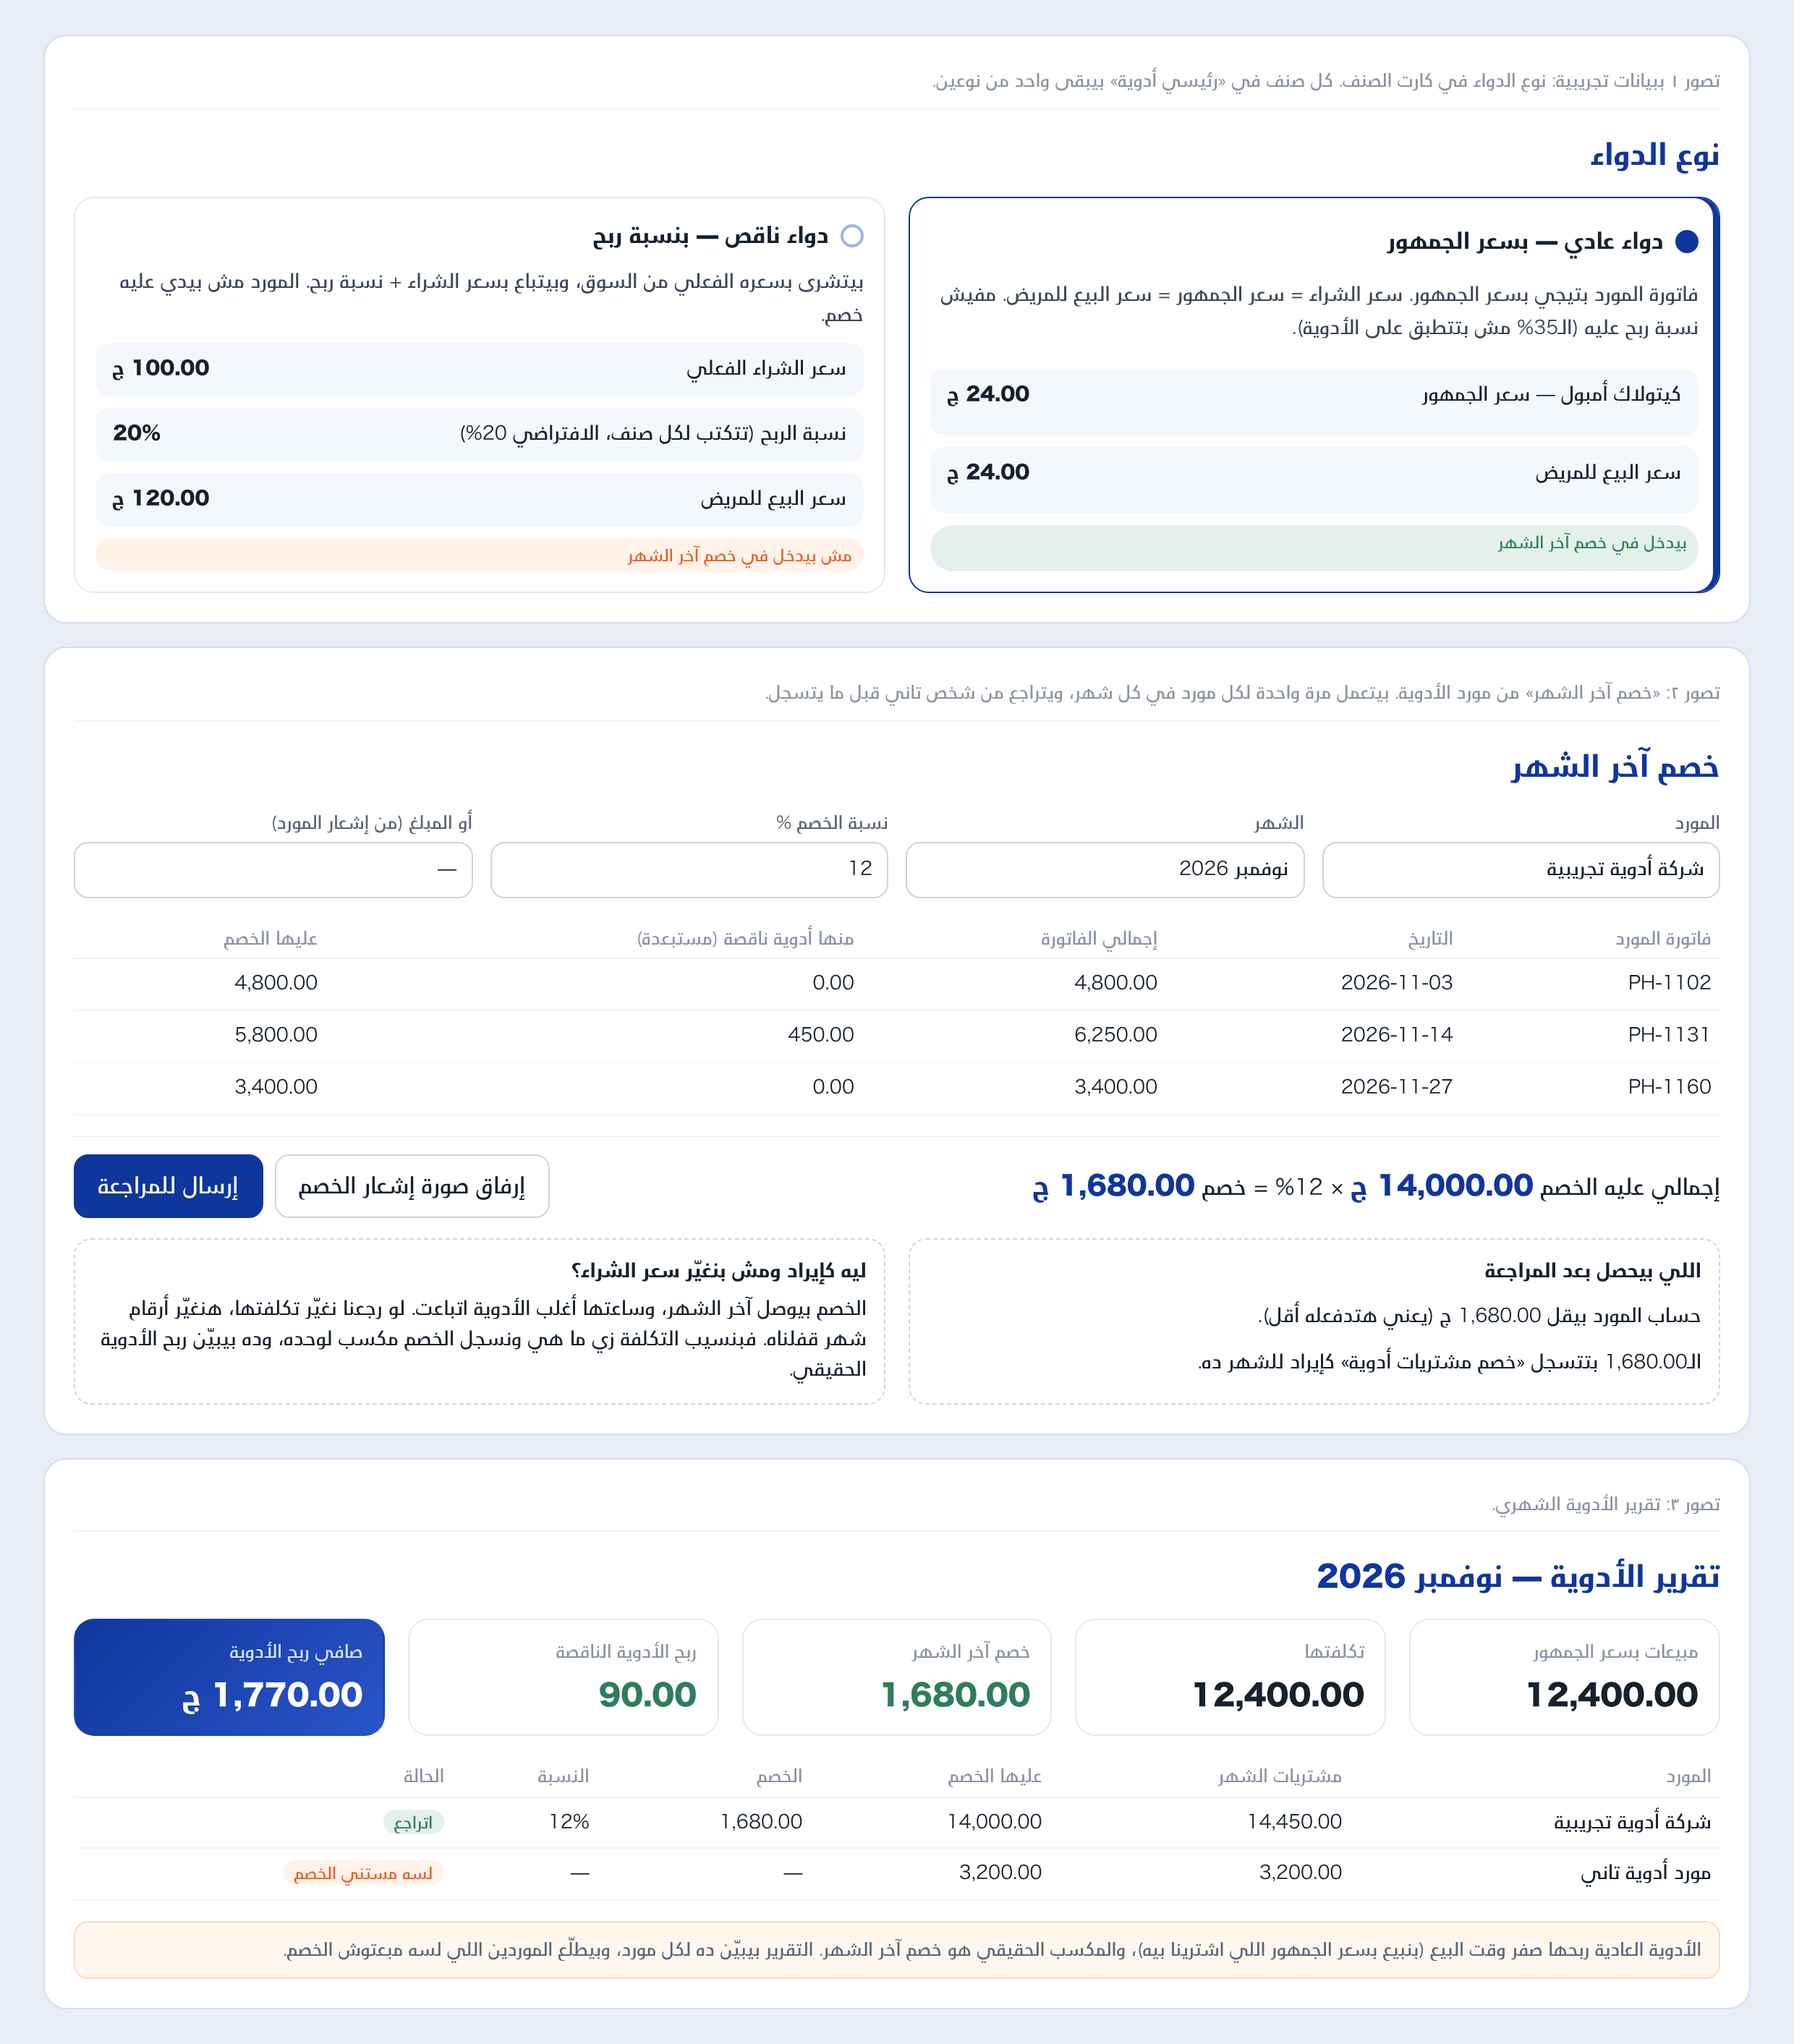
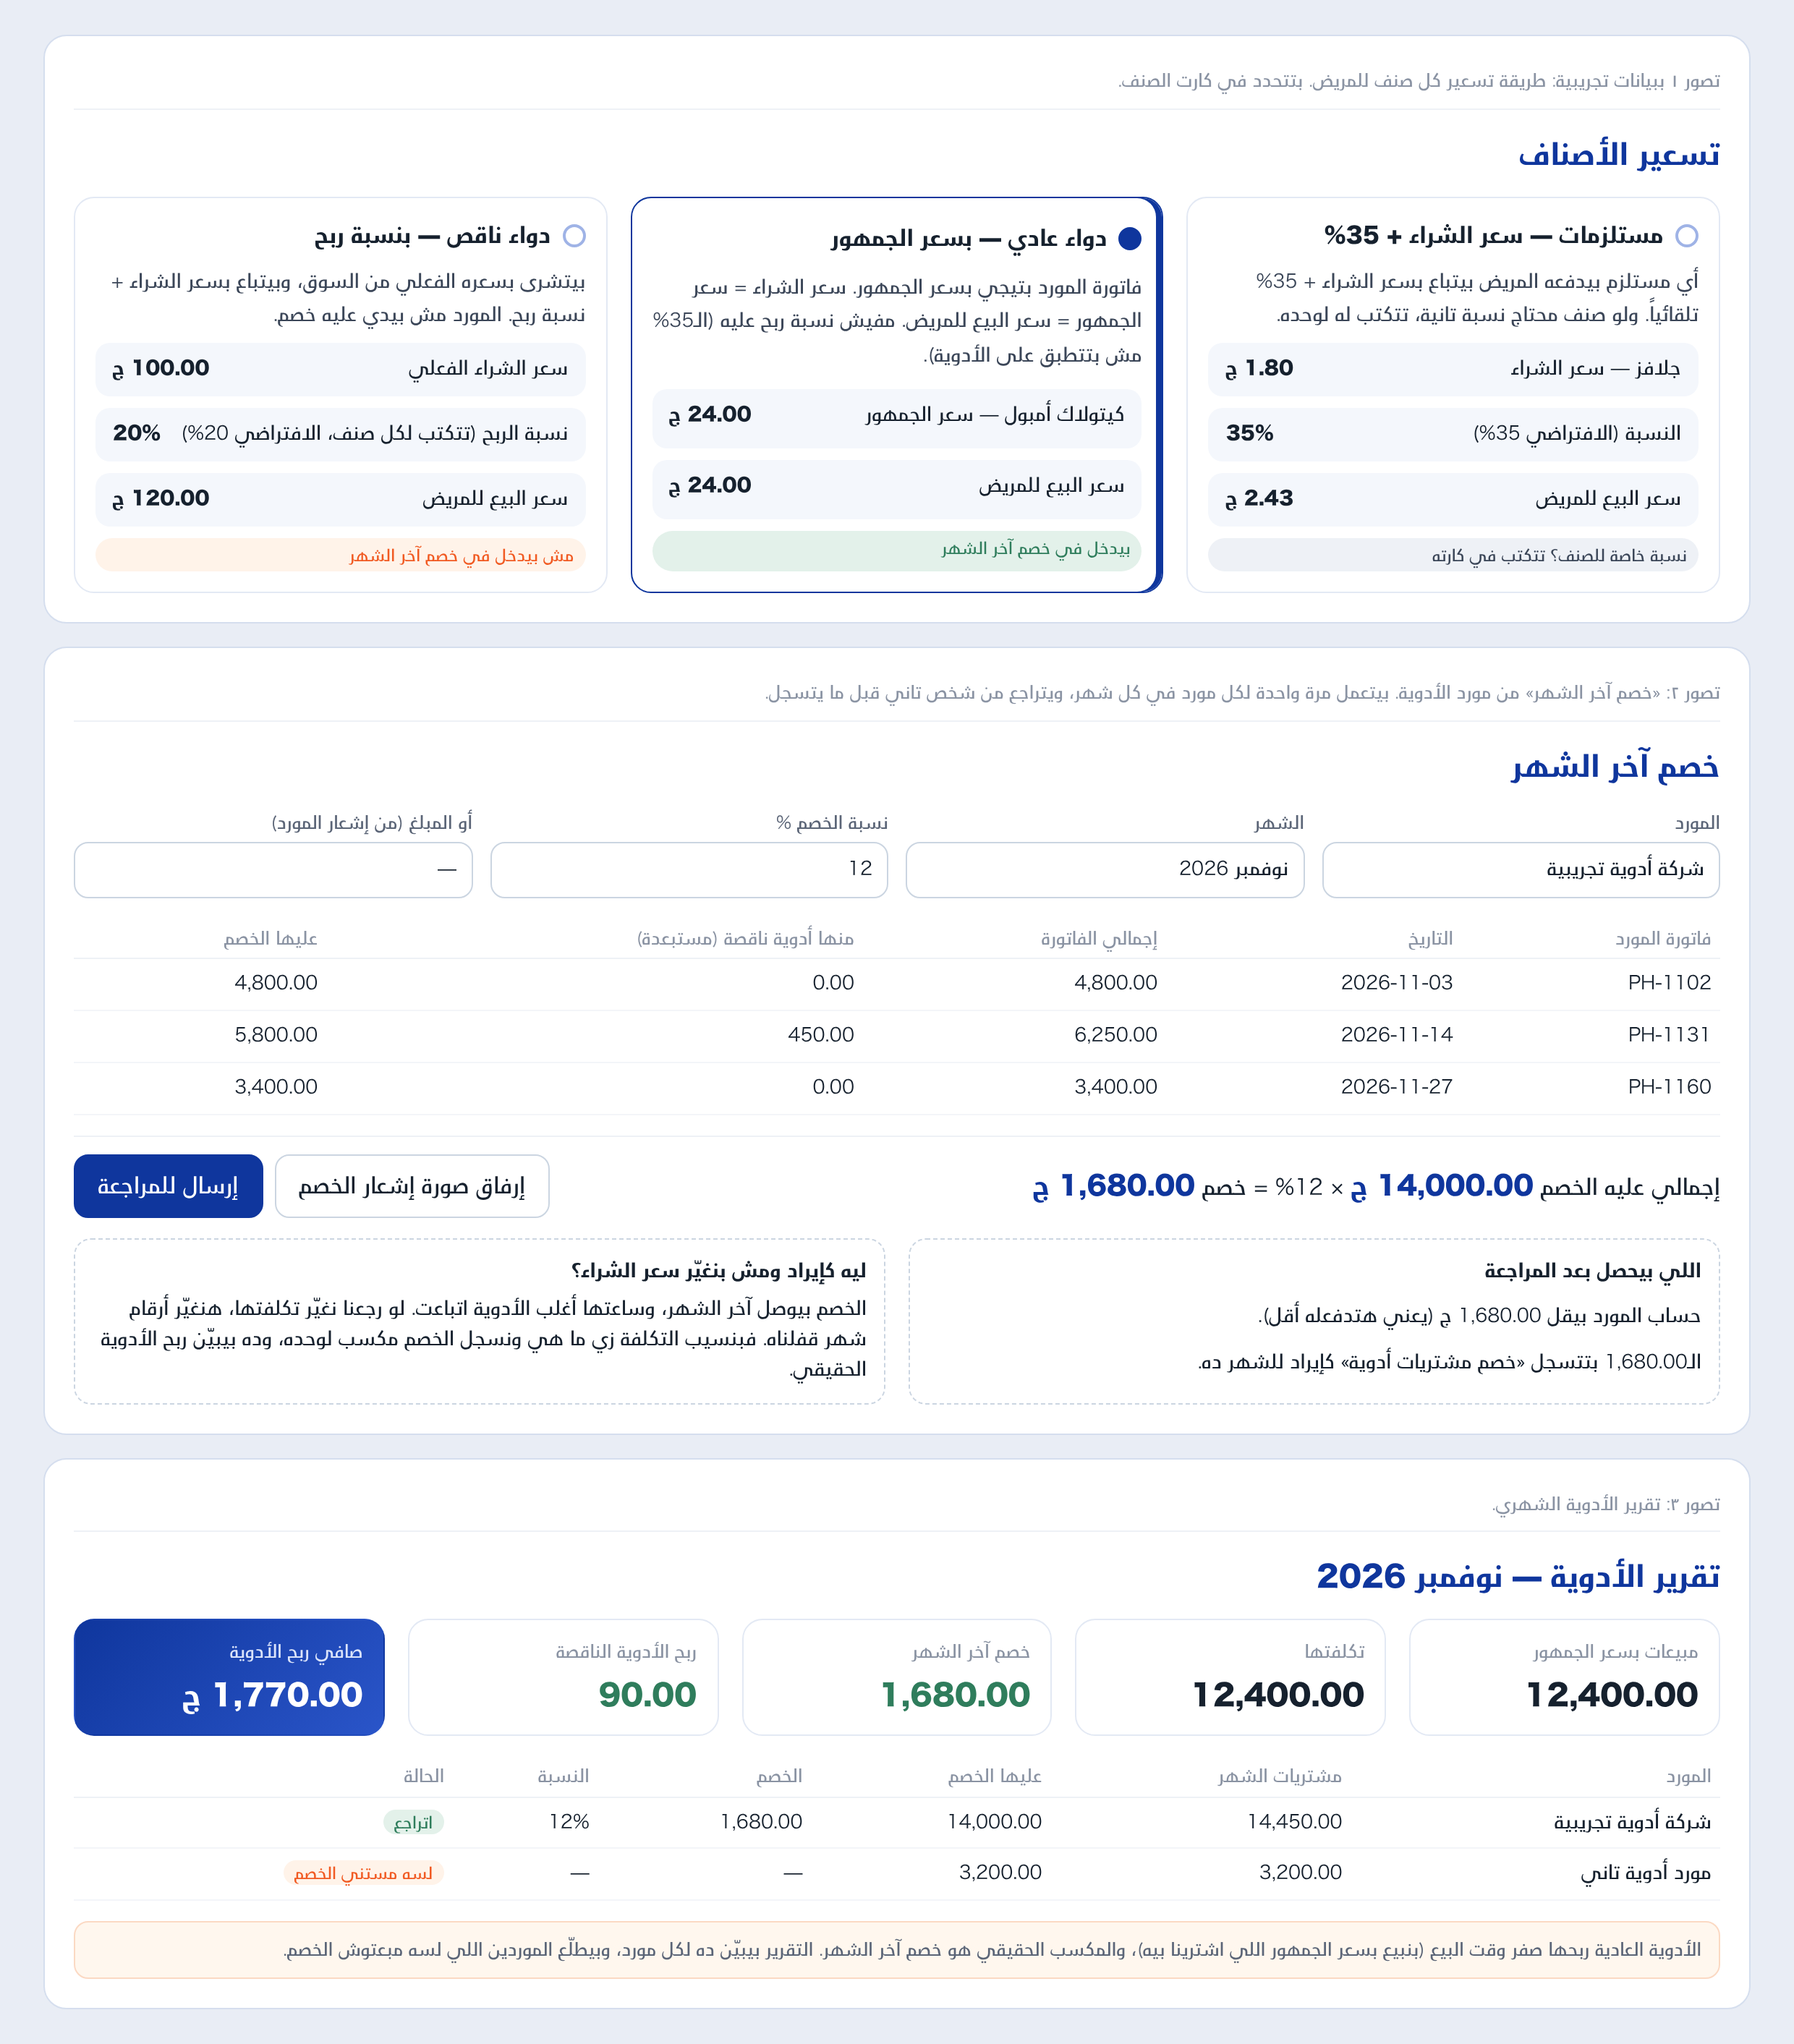
mockup: supplies pricing (35% default or per-item) next to medicines rules
Claude-Session: https://claude.ai/code/session_01UqVZHYG8dhSx5XTag1AaLD

Changed region(s): [[0.0931, 0.0623, 0.9625, 0.2803], [0.621, 0.0311, 0.652, 0.0623]]

diff --git a/docs/ui-references/mockups/medicines-store.html b/docs/ui-references/mockups/medicines-store.html
@@ -7,7 +7,7 @@ body{background:#e9edf5;margin:0;padding:24px 16px;color:#16212E}
 .eyebrow{margin:0;font-size:12px;color:#8a93a3;border-bottom:1px solid #EEF1F6;padding-bottom:8px}
 h2{margin:0;font-size:20px;color:#0F369D}h3{margin:0;font-size:15px}
 p{margin:0;font-size:13px;color:#3B4658;line-height:1.8}
-.two{display:grid;grid-template-columns:1fr 1fr;gap:16px}
+.two{display:grid;grid-template-columns:1fr 1fr;gap:16px}.three{display:grid;grid-template-columns:repeat(3,1fr);gap:16px}
 .opt{border:1px solid #E3E9F4;border-radius:14px;padding:14px;display:grid;gap:8px;font-size:13px}
 .opt.on{border-color:#0F369D;box-shadow:inset -4px 0 0 #0F369D}
 .opt .h{display:flex;align-items:center;gap:8px}.dot{width:16px;height:16px;border-radius:50%;border:2px solid #9fb3e6;display:inline-block}.on .dot{background:#0F369D;border-color:#0F369D}
@@ -26,13 +26,19 @@ td{padding:7px 6px;border-bottom:1px solid #F3F5F9;font-variant-numeric:tabular-
 .note{font-size:12px;color:#5b6577;background:#FFF7EE;border:1px solid #FBD9C3;border-radius:10px;padding:8px 12px;line-height:1.8}
 .entry{display:grid;grid-template-columns:1fr 1fr;gap:16px}
 .acc{border:1px dashed #CBD5E1;border-radius:12px;padding:12px;font-size:13px;display:grid;gap:6px}
-@media(max-width:820px){.two,.form,.entry{grid-template-columns:1fr}.kpis{grid-template-columns:repeat(2,1fr)}}
+@media(max-width:820px){.three,.two,.form,.entry{grid-template-columns:1fr}.kpis{grid-template-columns:repeat(2,1fr)}}
 </style></head><body><div class="wrap">
 
 <section class="card">
- <p class="eyebrow">تصور ١ ببيانات تجريبية: نوع الدواء في كارت الصنف. كل صنف في «رئيسي أدوية» بيبقى واحد من نوعين.</p>
- <h2>نوع الدواء</h2>
- <div class="two">
+ <p class="eyebrow">تصور ١ ببيانات تجريبية: طريقة تسعير كل صنف للمريض. بتتحدد في كارت الصنف.</p>
+ <h2>تسعير الأصناف</h2>
+ <div class="three">
+  <div class="opt"><div class="h"><span class="dot"></span><h3>مستلزمات — سعر الشراء + 35%</h3></div>
+   <p>أي مستلزم بيدفعه المريض بيتباع بسعر الشراء + 35% تلقائياً. ولو صنف محتاج نسبة تانية، تتكتب له لوحده.</p>
+   <div class="row"><span>جلافز — سعر الشراء</span><b>1.80 ج</b></div>
+   <div class="row"><span>النسبة (الافتراضي 35%)</span><b>35%</b></div>
+   <div class="row"><span>سعر البيع للمريض</span><b>2.43 ج</b></div>
+   <span class="chip">نسبة خاصة للصنف؟ تتكتب في كارته</span></div>
   <div class="opt on"><div class="h"><span class="dot"></span><h3>دواء عادي — بسعر الجمهور</h3></div>
    <p>فاتورة المورد بتيجي بسعر الجمهور. سعر الشراء = سعر الجمهور = سعر البيع للمريض. مفيش نسبة ربح عليه (الـ35% مش بتتطبق على الأدوية).</p>
    <div class="row"><span>كيتولاك أمبول — سعر الجمهور</span><b>24.00 ج</b></div>
